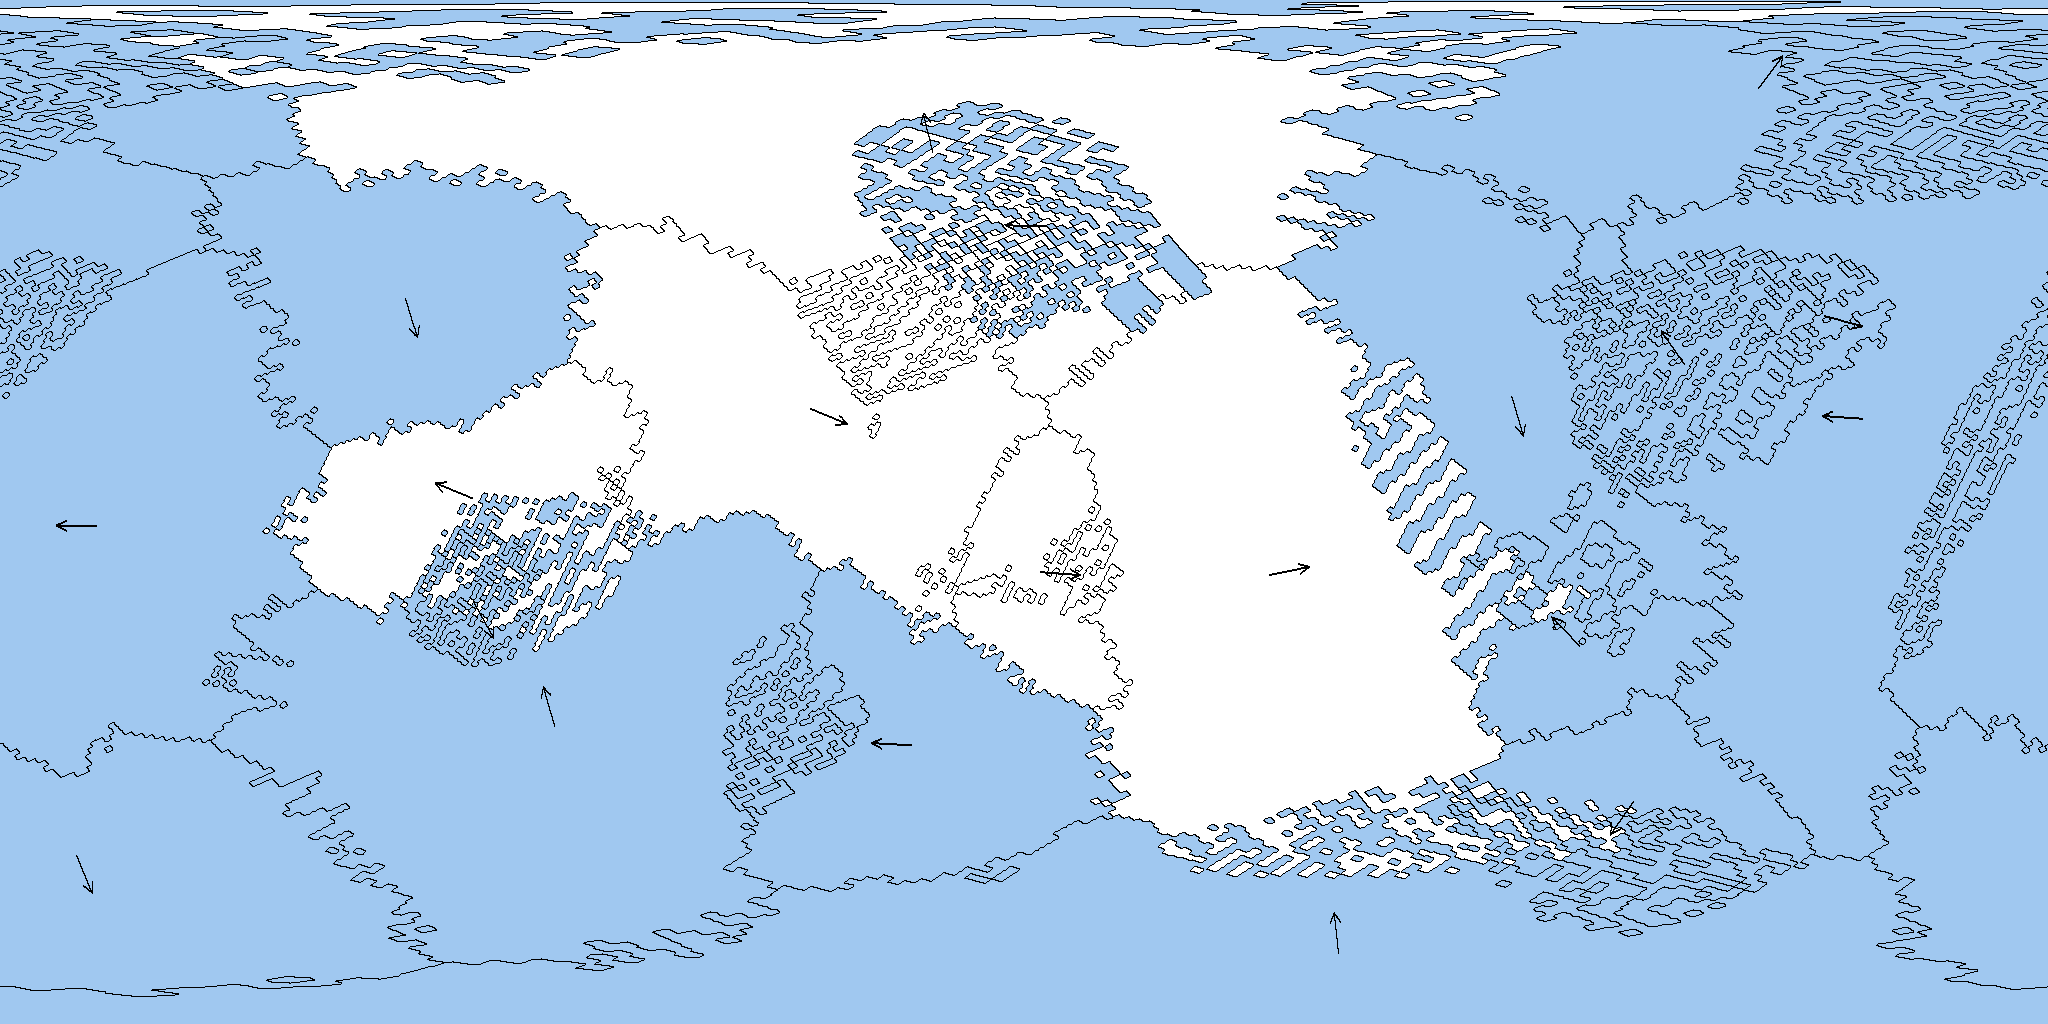
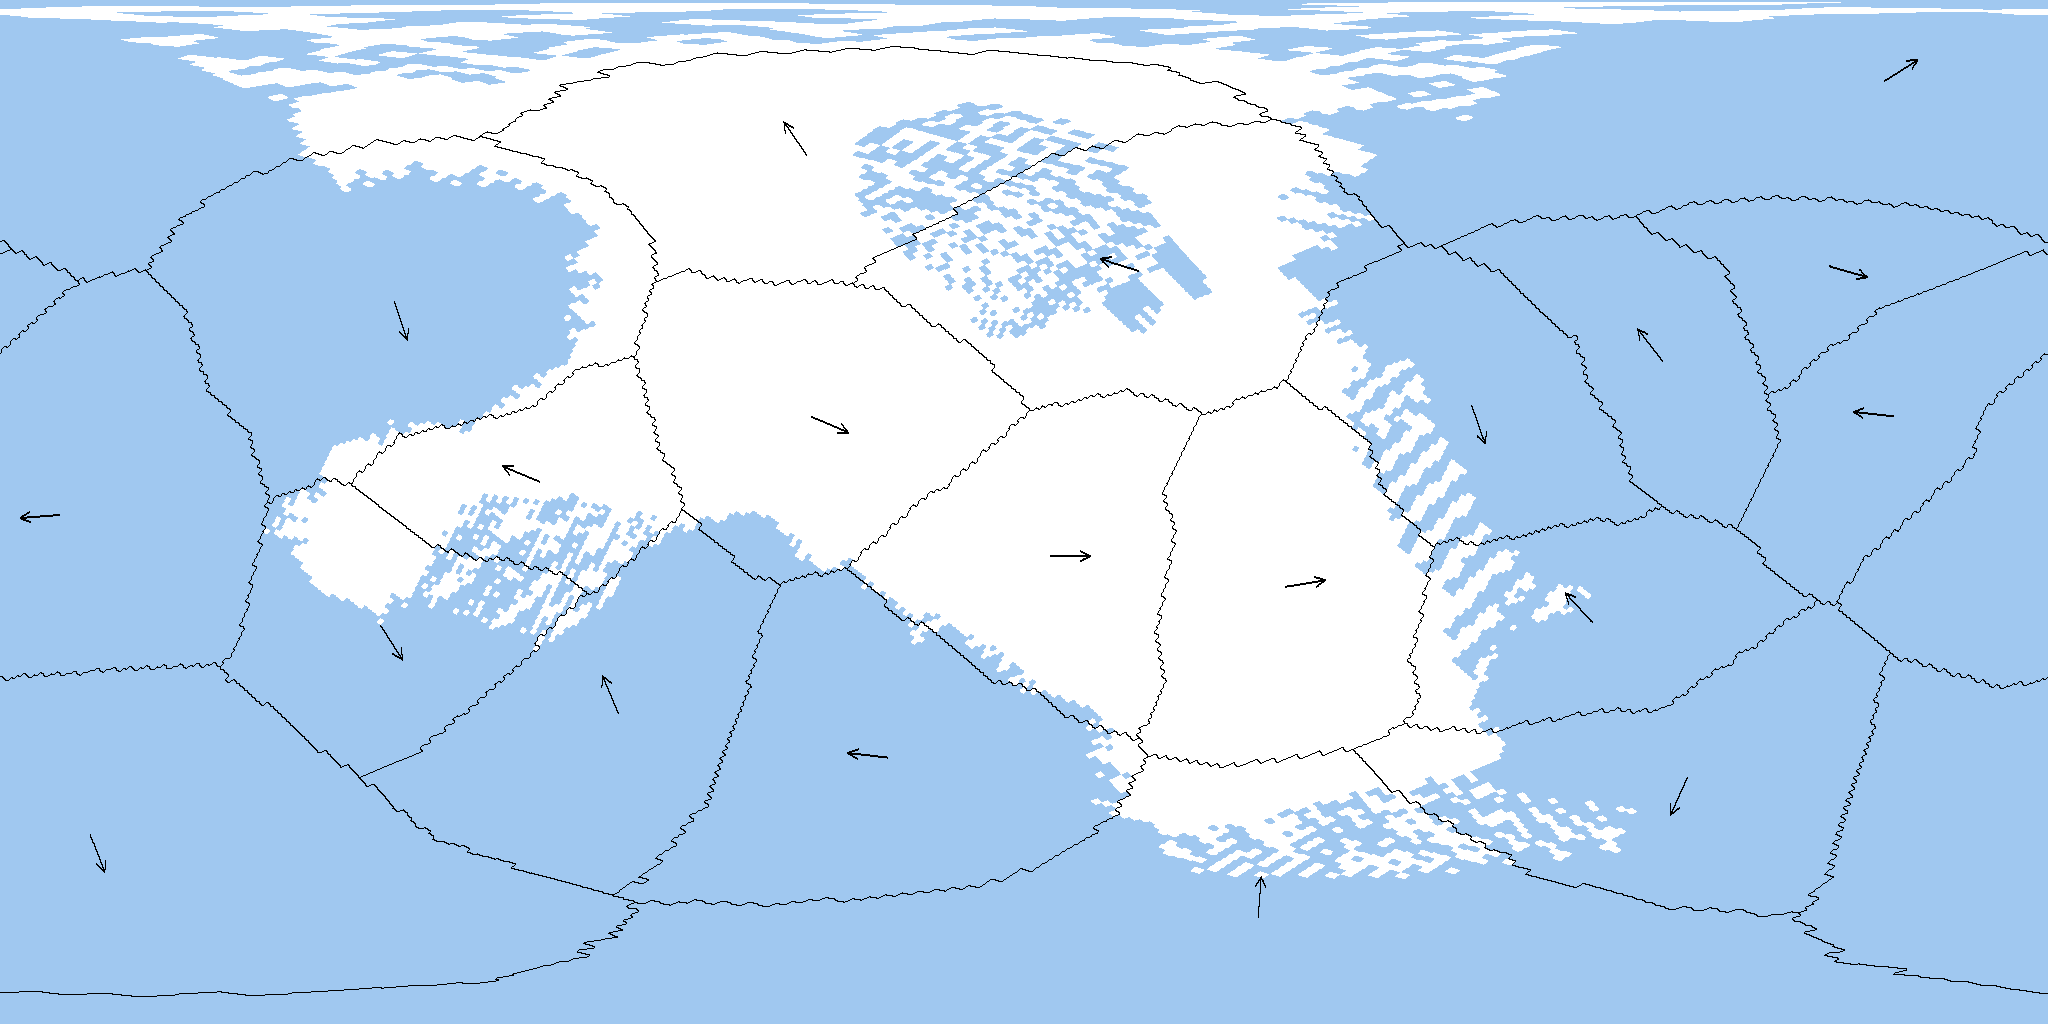
fix: removed tectonic border anomalies

diff --git a/src/tectonic_simulation/resample.rs b/src/tectonic_simulation/resample.rs
@@ -1,7 +1,7 @@
 use glam::DVec3;
 
 use super::fibonnaci_spiral::SphericalFibonacci;
-use super::plate_seed_placement::Adjacency;
+use super::plate_seed_placement::{Adjacency, flood_fill_from_seeds};
 use super::plates::{CrustData, Plate};
 use super::simulate::Simulation;
 use super::spherical_delaunay_triangulation::SphericalDelaunay;
@@ -32,16 +32,20 @@ pub fn resample(sim: &mut Simulation, point_count: u32) {
     // Delaunay on the drifted old points — used for barycentric interpolation.
     let old_delaunay = SphericalDelaunay::from_points(old_points);
 
-    // Fresh Fibonacci grid.
+    // Fresh Fibonacci grid + adjacency.
     let fib = SphericalFibonacci::new(point_count);
     let new_points = fib.all_points();
+    let new_delaunay = SphericalDelaunay::from_points(&new_points);
+    let new_adjacency = Adjacency::from_delaunay(new_points.len(), &new_delaunay);
 
-    let plate_count = sim.plates.len();
-    let mut new_plate_points: Vec<Vec<u32>> = vec![Vec::new(); plate_count];
-    let mut new_plate_crust: Vec<Vec<CrustData>> = vec![Vec::new(); plate_count];
+    // Step 1: Interpolate crust data from old mesh via barycentric interpolation.
+    // Store per new-point, indexed by new point index.
+    let new_n = new_points.len();
+    let mut crust_per_point: Vec<CrustData> = Vec::with_capacity(new_n);
+    let mut temp_owner: Vec<u32> = Vec::with_capacity(new_n);
 
     let mut last_tri = 0;
-    for (new_idx, &new_p) in new_points.iter().enumerate() {
+    for &new_p in &new_points {
         let (tri, b1, b2, b3) = old_delaunay.locate(new_p, old_points, last_tri);
         last_tri = tri;
 
@@ -52,33 +56,55 @@ pub fn resample(sim: &mut Simulation, point_count: u32) {
             old_delaunay.triangles[base + 2] as usize,
         ];
         let bary = [b1, b2, b3];
-        let plates = [point_plate[vi[0]], point_plate[vi[1]], point_plate[vi[2]]];
 
-        // Plate assignment: vertex with the largest barycentric weight.
+        // Temporary owner for crust interpolation (dominant vertex).
         let dominant = if bary[0] >= bary[1] && bary[0] >= bary[2] { 0 }
                        else if bary[1] >= bary[2] { 1 }
                        else { 2 };
-        let owner = plates[dominant];
+        let owner = point_plate[vi[dominant]];
+        temp_owner.push(owner);
 
-        // Interpolate crust data. Only blend vertices belonging to the same plate
-        // to avoid averaging across plate boundaries.
         let crust = interpolate_crust(
             &sim.plates, &point_plate, &point_local, vi, bary, owner,
         );
-
-        new_plate_points[owner as usize].push(new_idx as u32);
-        new_plate_crust[owner as usize].push(crust);
+        crust_per_point.push(crust);
     }
 
-    // Rebuild plates with new point assignments.
+    // Step 2: Compute plate centroids from old drifted points.
+    let plate_count = sim.plates.len();
+    let mut centroids: Vec<DVec3> = vec![DVec3::ZERO; plate_count];
+    for (plate_idx, plate) in sim.plates.iter().enumerate() {
+        for &global in &plate.point_indices {
+            centroids[plate_idx] += old_points[global as usize];
+        }
+        if !plate.point_indices.is_empty() {
+            centroids[plate_idx] = centroids[plate_idx].normalize();
+        }
+    }
+
+    // Step 3: Find nearest new Fibonacci point to each centroid → flood-fill seeds.
+    let seeds: Vec<u32> = centroids.iter()
+        .map(|&c| fib.nearest_index(c))
+        .collect();
+
+    // Step 4: Flood-fill from seeds on new adjacency → clean plate assignment.
+    let new_plate_ids = flood_fill_from_seeds(&new_points, &new_adjacency, &seeds);
+
+    // Step 5: Distribute crust data to plates based on flood-fill assignment.
+    let mut new_plate_points: Vec<Vec<u32>> = vec![Vec::new(); plate_count];
+    let mut new_plate_crust: Vec<Vec<CrustData>> = vec![Vec::new(); plate_count];
+    for (new_idx, &plate) in new_plate_ids.iter().enumerate() {
+        new_plate_points[plate as usize].push(new_idx as u32);
+        new_plate_crust[plate as usize].push(crust_per_point[new_idx].clone());
+    }
+
+    // Rebuild plates.
     for (plate_idx, plate) in sim.plates.iter_mut().enumerate() {
         plate.point_indices = new_plate_points[plate_idx].clone();
         plate.crust = new_plate_crust[plate_idx].clone();
     }
 
-    // Replace simulation state with fresh Fibonacci grid + Delaunay.
-    let new_delaunay = SphericalDelaunay::from_points(&new_points);
-    sim.adjacency = Adjacency::from_delaunay(new_points.len(), &new_delaunay);
+    sim.adjacency = new_adjacency;
     sim.points = new_points;
 }
 

diff --git a/src/tectonic_simulation/spherical_delaunay_triangulation.rs b/src/tectonic_simulation/spherical_delaunay_triangulation.rs
@@ -212,42 +212,14 @@ impl AdjacencyLists {
     }
 
     fn build(&mut self) {
-        self.build_inner(false);
-    }
-
-    #[cfg(test)]
-    fn build_debug(&mut self) {
-        self.build_inner(true);
-    }
-
-    fn build_inner(&mut self, debug: bool) {
         let (initial, order) = self.plan_insertion();
         self.create_initial_tetrahedron(initial);
-
-        if debug { self.dump_all(&format!("after initial tetrahedron {:?}", initial)); }
 
         let mut last_start = initial[0];
         for &k in &order {
             let (i1, i2, i3) = self.find(self.points[k as usize], last_start);
-            if debug {
-                eprintln!("INSERT {k} into triangle ({i1},{i2},{i3})");
-                let pi = self.points[i1 as usize];
-                let pj = self.points[i2 as usize];
-                let pk = self.points[i3 as usize];
-                let ccw = orient3d(pi, pj, pk, DVec3::ZERO);
-                eprintln!("  orient3d(i1,i2,i3,O) = {ccw:.6e} ({})", if ccw > 0.0 { "CCW" } else { "CW" });
-            }
             self.insert_interior(k, i1, i2, i3);
-            if debug {
-                self.dump_all(&format!("after insert_interior {k}"));
-                self.validate_neighbor_symmetry(&format!("after insert_interior {k}"));
-                self.validate_triangles(&format!("after insert_interior {k}"));
-            }
             self.enforce_delaunay(k);
-            if debug {
-                self.dump_all(&format!("after enforce_delaunay {k}"));
-                self.validate_triangles(&format!("after enforce_delaunay {k}"));
-            }
             last_start = k;
         }
     }
@@ -827,7 +799,7 @@ mod tests {
         ];
         // Use debug build to trace what happens.
         let mut adj = AdjacencyLists::new(&points);
-        adj.build_debug();
+        adj.build();
         let del = adj.into_delaunay();
         assert_eq!(del.triangle_count(), 4);
     }
@@ -839,7 +811,7 @@ mod tests {
             let sf = SphericalFibonacci::new(8);
             let points = sf.all_points();
             let mut adj = AdjacencyLists::new(&points);
-            adj.build_debug();
+            adj.build();
             let del = adj.into_delaunay();
             assert_eq!(del.triangle_count(), 2 * 8 - 4, "n=8");
         }

diff --git a/src/tectonic_simulation/plate_seed_placement.rs b/src/tectonic_simulation/plate_seed_placement.rs
@@ -230,6 +230,41 @@ fn flood_fill(points: &[DVec3], adjacency: &Adjacency, seeds: &[u32], warp: &War
     plate_ids
 }
 
+/// Simple Dijkstra flood-fill with uniform arc-distance edge costs.
+/// Used during resampling to reassign plate ownership from centroids.
+pub fn flood_fill_from_seeds(points: &[DVec3], adjacency: &Adjacency, seeds: &[u32]) -> Vec<u32> {
+    let mut plate_ids = vec![UNASSIGNED; points.len()];
+    let mut costs = vec![f64::INFINITY; points.len()];
+    let mut heap = BinaryHeap::with_capacity(points.len());
+
+    for (plate, &seed) in seeds.iter().enumerate() {
+        plate_ids[seed as usize] = plate as u32;
+        costs[seed as usize] = 0.0;
+        heap.push(Entry { cost: 0.0, point: seed });
+    }
+
+    while let Some(Entry { cost, point }) = heap.pop() {
+        if cost > costs[point as usize] { continue; }
+
+        let plate = plate_ids[point as usize];
+        let p = points[point as usize];
+
+        for &neighbor in adjacency.neighbors_of(point) {
+            let q = points[neighbor as usize];
+            let edge_cost = p.dot(q).clamp(-1.0, 1.0).acos();
+            let new_cost = cost + edge_cost;
+
+            if new_cost < costs[neighbor as usize] {
+                costs[neighbor as usize] = new_cost;
+                plate_ids[neighbor as usize] = plate;
+                heap.push(Entry { cost: new_cost, point: neighbor });
+            }
+        }
+    }
+
+    plate_ids
+}
+
 fn generate_plate_speeds(plate_count: usize, warp: &WarpParams) -> Vec<f64> {
     let [lo, hi] = warp.speed_range;
     let mut rng_state = splitmix64(warp.noise_seed as u64 ^ 0xDEAD_BEEF);
